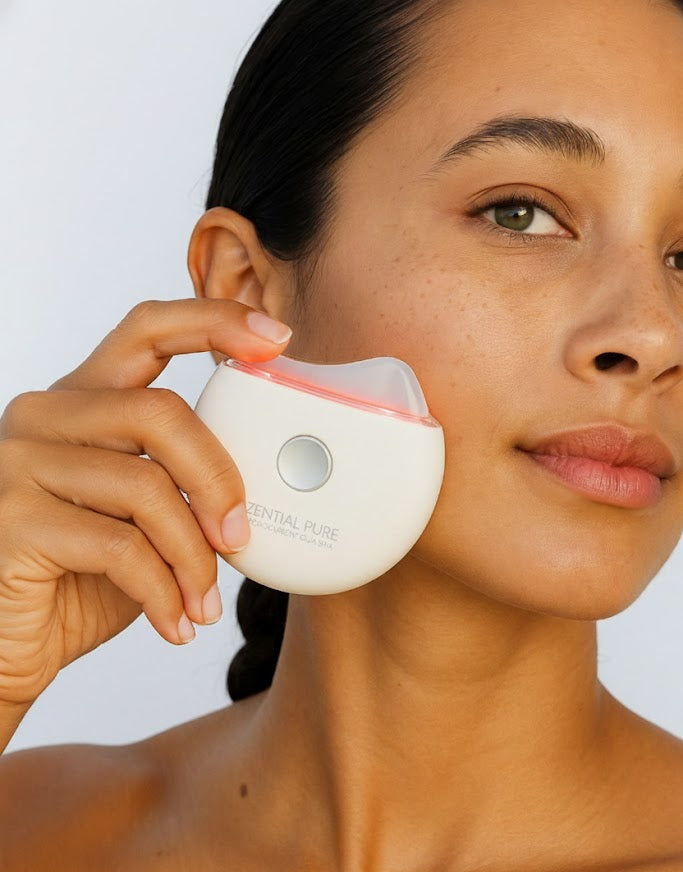
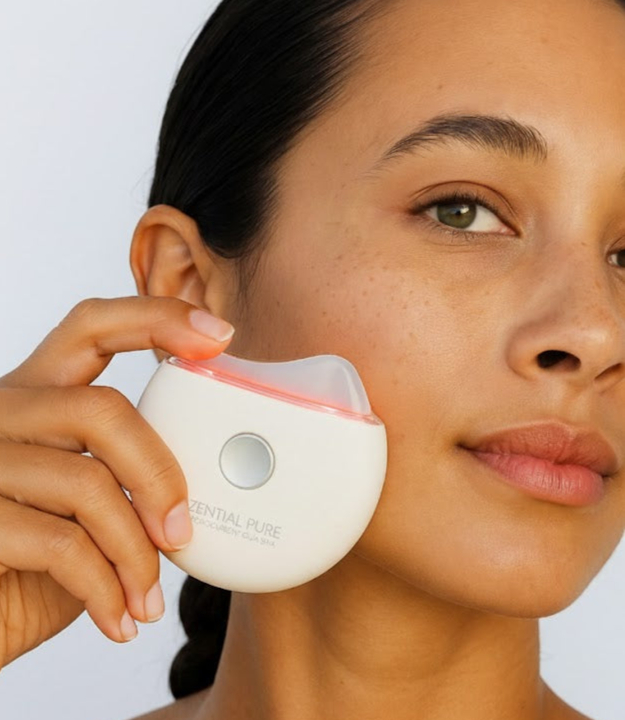
Changes

diff --git a/src/components/zential/SocialProof.tsx b/src/components/zential/SocialProof.tsx
@@ -45,7 +45,7 @@ export function SocialProof() {
                     className="w-full h-full object-cover"
                     style={
                       t.name === "Elena R." ? { objectPosition: "center", transform: "scale(1.4)" } :
-                      t.name === "Anna B." ? { objectPosition: "80% 20%", transform: "scale(1.6)" } :
+                      t.name === "Anna B." ? { objectPosition: "center 25%", transform: "scale(1.3)" } :
                       undefined
                     }
                   />
